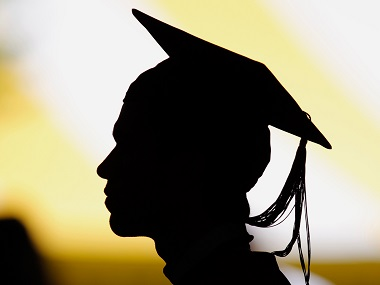
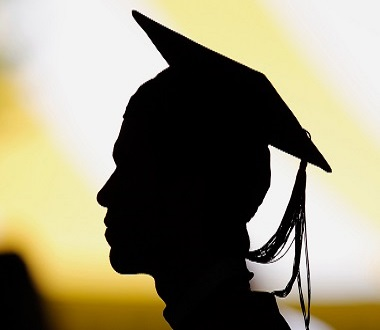
graduation resize

diff --git a/unit6/index.html b/unit6/index.html
@@ -51,20 +51,22 @@
 				</fieldset>
 				<div id="searchButton">
 					<p>Search</p>
-				</div>
+			</div>
 		</section>	
 		
 		<section id="events">
 			<h1 id="eventstitle">Choose an event to start building your registry</h1>
-			<figure id="wedding">
-				<img src="https://raw.githubusercontent.com/timweyel/timweyel.github.io/master/unit6/images/Wedding-Bands-cropped.jpg" alt="Weddings" title="wedding" width="200px">
-				<span class="caption">Weddings</span>
-			</figure>
+			<div id="eventsImages">
+				<figure id="wedding">
+					<img src="https://raw.githubusercontent.com/timweyel/timweyel.github.io/master/unit6/images/Wedding-Bands-cropped.jpg" alt="Weddings" title="wedding" width="200px">
+					<span class="caption">Weddings</span>
+				</figure>
 
-			<figure id"graduation">
-				<img src="https://raw.githubusercontent.com/timweyel/timweyel.github.io/master/unit6/images/graduation-resize.jpg" alt="Graduation" title="graduation" width="200px">
-				<span class="caption">Graduations</span>
-			</figure>
+				<figure id="graduation">
+					<img src="https://raw.githubusercontent.com/timweyel/timweyel.github.io/master/unit6/images/graduation-resized.jpg" alt="Graduation" title="graduation" width="200px">
+					<span class="caption">Graduations</span>
+				</figure>
+			</div>
 		</section>
 
 	</header>

diff --git a/unit6/css/style.css b/unit6/css/style.css
@@ -103,6 +103,10 @@ a {
 	margin: 0 0 30px 0;
 }
 
+#eventsImages {
+	display: inline-block;
+}
+
 #events {
 	margin: 40px 0 0 20px;
 }
@@ -112,7 +116,9 @@ a {
 }
 
 #graduation {
-	position: relative;
+	position: absolute;
+	left: 650px;
+	top: 320px;
 }
 
 .clearfix:after {
